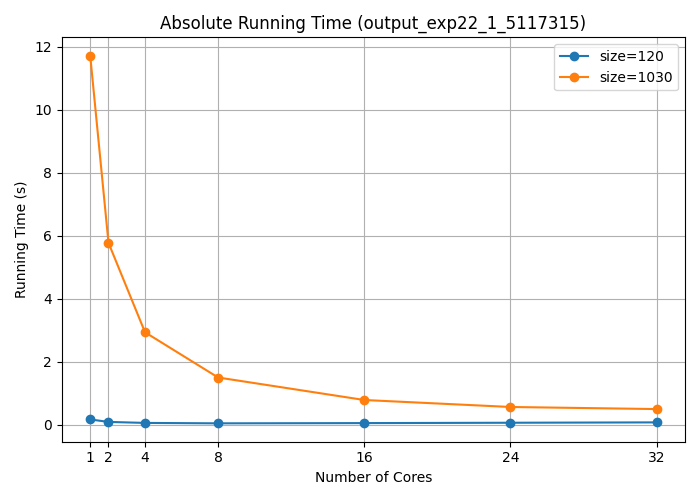
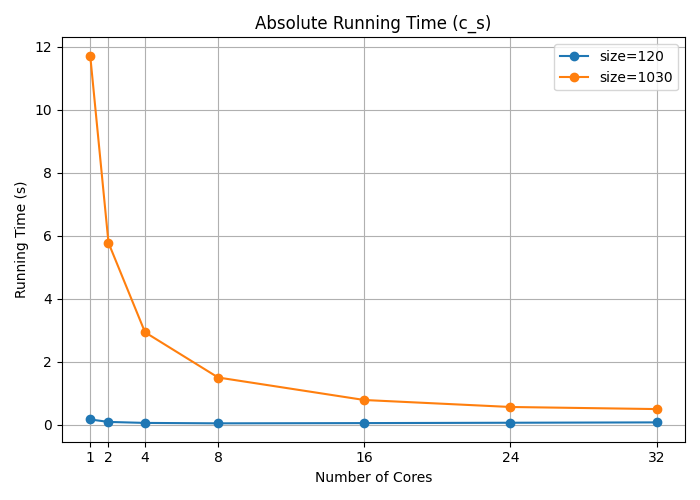
Small changes in labels and some code refactoring

Changed region(s): [[0.21, 0.03, 0.84, 0.06]]

diff --git a/parse_and_plot.py b/parse_and_plot.py
@@ -1,11 +1,11 @@
-import matplotlib
-matplotlib.use('Agg')
-import matplotlib.pyplot as plt
-import numpy as np
-from collections import defaultdict
 import os
 import glob
 import csv
+import matplotlib
+import matplotlib.pyplot as plt
+import numpy as np
+from collections import defaultdict
+matplotlib.use('Agg') # Using Anti-Grain Geometry
 
 def find_latest_file(pattern):
     """Find the most recently modified file matching the pattern."""
@@ -14,12 +14,11 @@ def find_latest_file(pattern):
         return None
     return max(files, key=os.path.getmtime)
 
-def parse_dat_file(filename):
+def parse_calc_means(filename):
     if not filename or not os.path.exists(filename):
         print(f"File {filename} not found.")
         return None
 
-    print(f"Parsing {filename}...")
     data = defaultdict(list)
     with open(filename, 'r') as f:
         for line in f:
@@ -58,23 +57,12 @@ def save_to_csv(results, sizes, nprocs_list, filename):
     print(f"Saving results to {filename}...")
     with open(filename, 'w', newline='') as csvfile:
         writer = csv.writer(csvfile)
-        # Header matching the user request: size p mean runtime (s) speed-up par. eff.
         writer.writerow(['size', 'p', 'runtime', 'speedup', 'efficiency'])
         for size in sizes:
             for p in nprocs_list:
                 if (size, p) in results:
                     tp, speedup, efficiency = results[(size, p)]
                     writer.writerow([size, p, f"{tp:.4f}", f"{speedup:.2f}", f"{efficiency:.2f}"])
-
-def generate_markdown_table(results, sizes, nprocs_list, title):
-    print(f"\n### {title}")
-    print("| Size | Cores | Mean Runtime (s) | Speed-up | Parallel Efficiency |")
-    print("|---|---|---|---|---|")
-    for size in sizes:
-        for p in nprocs_list:
-            if (size, p) in results:
-                tp, speedup, efficiency = results[(size, p)]
-                print(f"| {size} | {p} | {tp:.4f} | {speedup:.2f} | {efficiency:.2f} |")
 
 def save_plot(fig, filename):
     base_path = './figs/'
@@ -84,7 +72,8 @@ def save_plot(fig, filename):
     print(f"Saved plot to {filename}")
 
 def plot_metrics(results, sizes, nprocs_list, suffix, c_type):
-    # --- Absolute Runtime ---
+    benchmark_bool = "benchmark" in c_type
+    # Absolute Runtime
     fig, ax = plt.subplots(figsize=(7, 5))
     for size in sizes:
         valid_procs = [p for p in nprocs_list if (size, p) in results]
@@ -92,13 +81,17 @@ def plot_metrics(results, sizes, nprocs_list, suffix, c_type):
         ax.plot(valid_procs, times, marker='o', label=f'size={size}')
     ax.set_xlabel('Number of Cores')
     ax.set_ylabel('Running Time (s)')
-    ax.set_title(f'Absolute Running Time ({c_type})')
+    if (benchmark_bool):
+        ax.set_title(f'Absolute Running Time (c_b)')
+    else: 
+        ax.set_title(f'Absolute Running Time (c_s)')
+    
     ax.legend()
     ax.grid(True)
     ax.set_xticks(nprocs_list)
     save_plot(fig, f'benchmark_plots_{suffix}_runtime.png')
 
-    # --- Relative Speed-up ---
+    # Relative Speed-up
     fig, ax = plt.subplots(figsize=(7, 5))
     for size in sizes:
         valid_procs = [p for p in nprocs_list if (size, p) in results]
@@ -107,14 +100,18 @@ def plot_metrics(results, sizes, nprocs_list, suffix, c_type):
     ax.plot(nprocs_list, nprocs_list, 'k--', label='Ideal Speed-up')
     ax.set_xlabel('Number of Cores')
     ax.set_ylabel('Relative Speed-up')
-    ax.set_title(f'Relative Speed-up ({c_type})')
+    if (benchmark_bool):
+        ax.set_title(f'Relative Speed-up (c_b)')
+    else: 
+        ax.set_title(f'Relative Speed-up (c_s)')
+
     ax.legend()
     ax.grid(True)
     ax.set_xticks(nprocs_list)
     
     save_plot(fig, f'benchmark_plots_{suffix}_speedup.png')
 
-    # --- Parallel Efficiency ---
+    # Parallel Efficiency
     fig, ax = plt.subplots(figsize=(7, 5))
     for size in sizes:
         valid_procs = [p for p in nprocs_list if (size, p) in results]
@@ -123,7 +120,11 @@ def plot_metrics(results, sizes, nprocs_list, suffix, c_type):
     ax.axhline(y=1.0, color='k', linestyle='--', label='Ideal Efficiency')
     ax.set_xlabel('Number of Cores')
     ax.set_ylabel('Parallel Efficiency')
-    ax.set_title(f'Parallel Efficiency ({c_type})')
+    if (benchmark_bool):
+        ax.set_title(f'Parallel Efficiency (c_b)')
+    else: 
+        ax.set_title(f'Parallel Efficiency (c_s)')
+
     ax.legend()
     ax.grid(True)
     ax.set_xticks(nprocs_list)
@@ -131,14 +132,14 @@ def plot_metrics(results, sizes, nprocs_list, suffix, c_type):
     save_plot(fig, f'benchmark_plots_{suffix}_efficiency.png')
 
 
-def process_dat_file(dat_file, nprocs_list, sizes):
+def process_dat_file(dat_file):
     """Parse a .dat file, compute metrics, save CSV, print table, and generate plots."""
-    means = parse_dat_file(dat_file)
+    means = parse_calc_means(dat_file)
     if means is None:
         return
 
-    found_sizes = sorted(set(s for s, _ in means.keys()))
-    found_nprocs = sorted(set(p for _, p in means.keys()))
+    found_sizes = sorted(set(s for s, p in means.keys()))
+    found_nprocs = sorted(set(p for s, p in means.keys()))
 
     results = calculate_metrics(means, found_sizes, found_nprocs)
 
@@ -147,7 +148,6 @@ def process_dat_file(dat_file, nprocs_list, sizes):
     csv_file = f"results_{suffix}.csv"
     plot_file_suffix = suffix
 
-    generate_markdown_table(results, found_sizes, found_nprocs, f"Table for {basename}")
     save_to_csv(results, found_sizes, found_nprocs, csv_file)
     plot_metrics(results, found_sizes, found_nprocs, plot_file_suffix, basename)
 
@@ -164,8 +164,6 @@ if __name__ == "__main__":
         print(f"Found {len(dat_files)} data file(s): {dat_files}\n")
         for dat_file in dat_files:
             print(f"{'='*60}")
-            process_dat_file(dat_file, nprocs_list, sizes)
+            process_dat_file(dat_file)
             print()
 
-
-# uv run --with matplotlib --with numpy python3 parse_and_plot.py

diff --git a/julia_par.py b/julia_par.py
@@ -51,7 +51,7 @@ def compute_patch(task_args):
     patch_w = min(patch, size - x)
     patch_h = min(patch, size - y)
 
-    subimage = np.zeros((patch_w, patch_h))
+    patchimage = np.zeros((patch_w, patch_h))
     for ix in range(patch_w):
         for iy in range(patch_h):
             nit = 0
@@ -63,11 +63,11 @@ def compute_patch(task_args):
                 z = z**2 + c
                 nit += 1
             ratio = nit / nit_max
-            subimage[ix,iy] = ratio
+            patchimage[ix,iy] = ratio
 
-    return x, y, subimage
+    return x, y, patchimage
 
-def compute_julia_in_parallel(size, xmin, xmax, ymin, ymax, patch, nprocs, c):
+def compute_julia_parallel(size, xmin, xmax, ymin, ymax, patch, nprocs, c):
     meta_info = (size, xmin, xmax, ymin, ymax, c)
     task_list = []
     
@@ -80,9 +80,9 @@ def compute_julia_in_parallel(size, xmin, xmax, ymin, ymax, patch, nprocs, c):
         
     julia_img = np.zeros((size, size))
     for p in completed_patches:
-        x, y, subimage = p
-        patch_w, patch_h = subimage.shape
-        julia_img[x:x+patch_w, y:y+patch_h] = subimage
+        x, y, patchimage = p
+        patch_w, patch_h = patchimage.shape
+        julia_img[x:x+patch_w, y:y+patch_h] = patchimage
 
     return julia_img
 
@@ -118,7 +118,7 @@ if __name__ == "__main__":
         c = c_from_group(GROUP_SIZE, GROUP_NUMBER) 
 
     stime = time.perf_counter()
-    julia_img = compute_julia_in_parallel(
+    julia_img = compute_julia_parallel(
         args.size,
         args.xmin, args.xmax, 
         args.ymin, args.ymax, 
